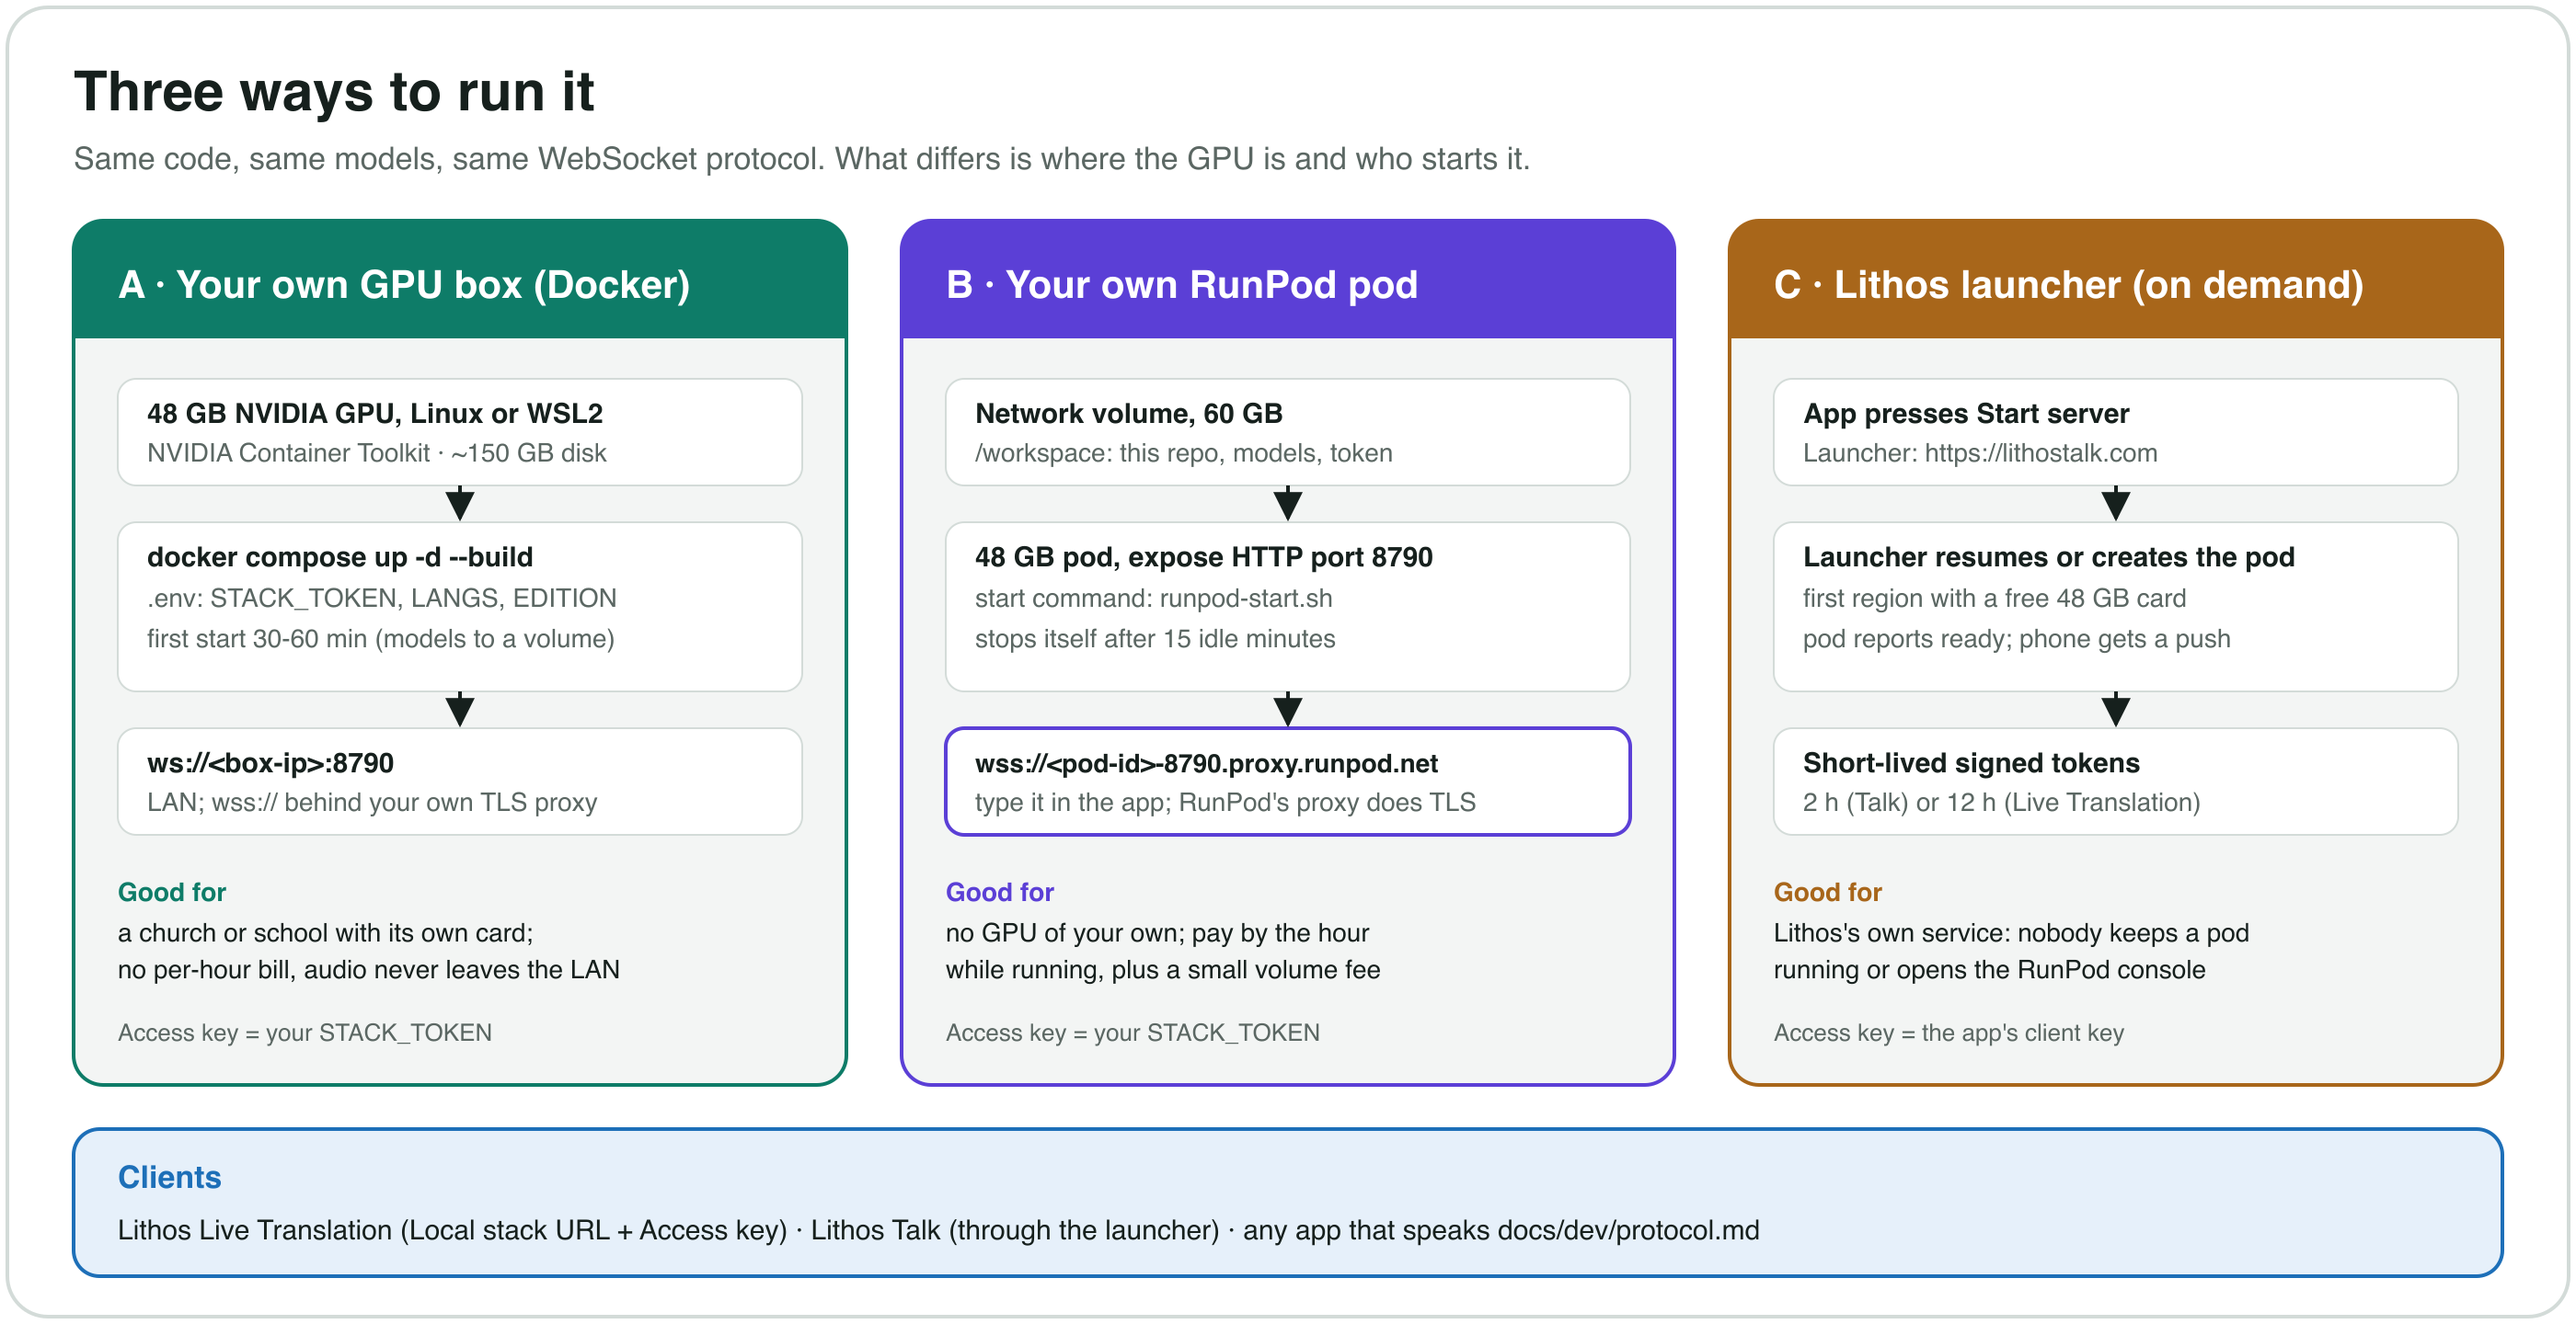
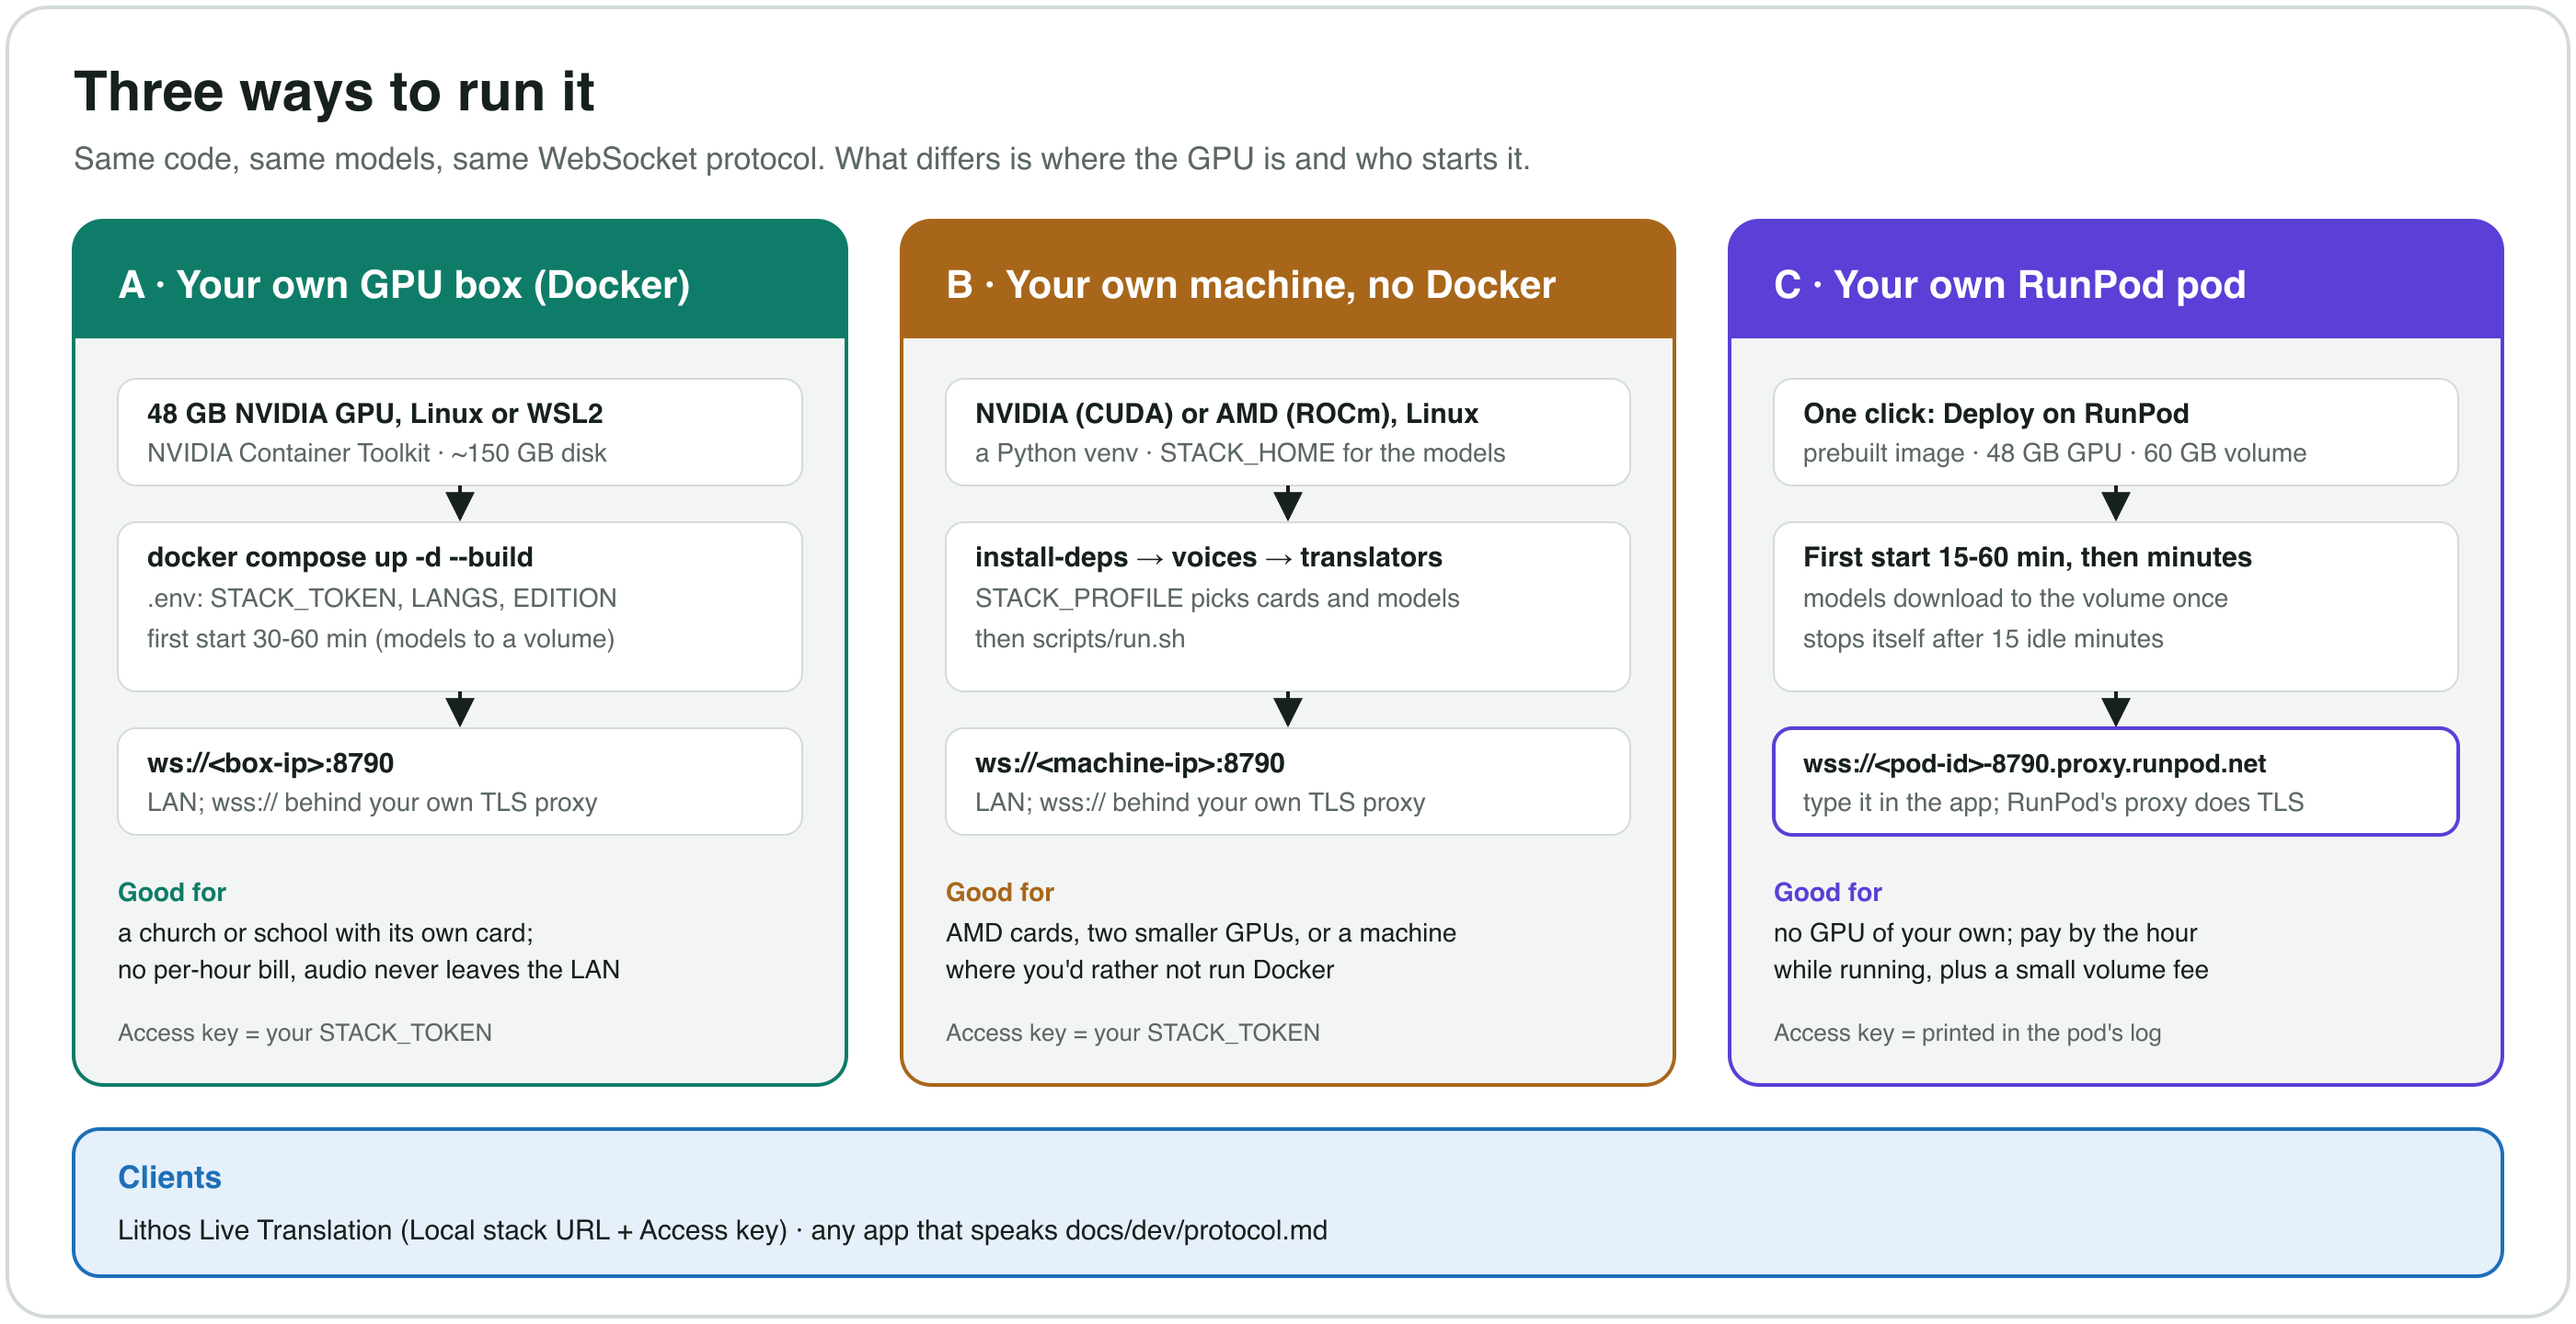
README: drop the Lithos launcher; the third way is installing without Docker. NOTICE: Vortas, LLC (#6)
The deployment diagram and the README's ways to run it no longer show the
Lithos launcher: Docker, your own machine without Docker (NVIDIA or AMD),
and your own RunPod pod (the one-click template, as it is now). NOTICE names
Vortas, LLC as the copyright holder, as the README does.

Claude-Session: https://claude.ai/code/session_01Jfk915E6S7XfgyNzuFQMHf

diff --git a/README.md b/README.md
@@ -24,14 +24,18 @@ who starts it.
 1. **Your own GPU, with Docker.** A 48 GB NVIDIA card (32 GB with a smaller
    translator), Linux or Windows WSL2, Docker with the NVIDIA Container
    Toolkit. No per-hour bill, and audio never leaves your network.
-2. **Your own RunPod pod.** Rent a 48 GB GPU by the hour: one click on
+2. **Your own machine, without Docker.** NVIDIA or AMD (ROCm) on Linux, in a
+   Python virtualenv: for AMD cards, two smaller GPUs, or a machine where you'd
+   rather not run Docker. Steps:
+   [user guide](docs/user-guide.md#install-without-docker-linux-nvidia-or-amd).
+3. **Your own RunPod pod.** Rent a 48 GB GPU by the hour: one click on
    **[Deploy on RunPod](https://console.runpod.io/deploy?template=dftcc24b6q)**
    (the prebuilt image `ghcr.io/lithsec/translation-open-stack`), then connect to
    `wss://<pod-id>-8790.proxy.runpod.net` with the access key the pod prints in
    its log. The pod stops itself when idle. Steps:
    [user guide](docs/user-guide.md#one-click-the-runpod-template).
 
-![Three ways to run it: your own GPU box with Docker, your own RunPod pod, or the Lithos launcher](docs/images/deployment.png)
+![Three ways to run it: your own GPU box with Docker, your own machine without Docker (NVIDIA or AMD), or your own RunPod pod](docs/images/deployment.png)
 
 ## Quick start (Docker)
 

diff --git a/docs/user-guide.md b/docs/user-guide.md
@@ -23,7 +23,7 @@ the [reference](reference.md); licences are in [licences.md](licences.md).
 - [Update](#update)
 - [Troubleshooting](#troubleshooting)
 
-![Three ways to run it: your own GPU box with Docker, your own RunPod pod, or the Lithos launcher](images/deployment.png)
+![Three ways to run it: your own GPU box with Docker, your own machine without Docker (NVIDIA or AMD), or your own RunPod pod](images/deployment.png)
 
 ## Before you start
 
